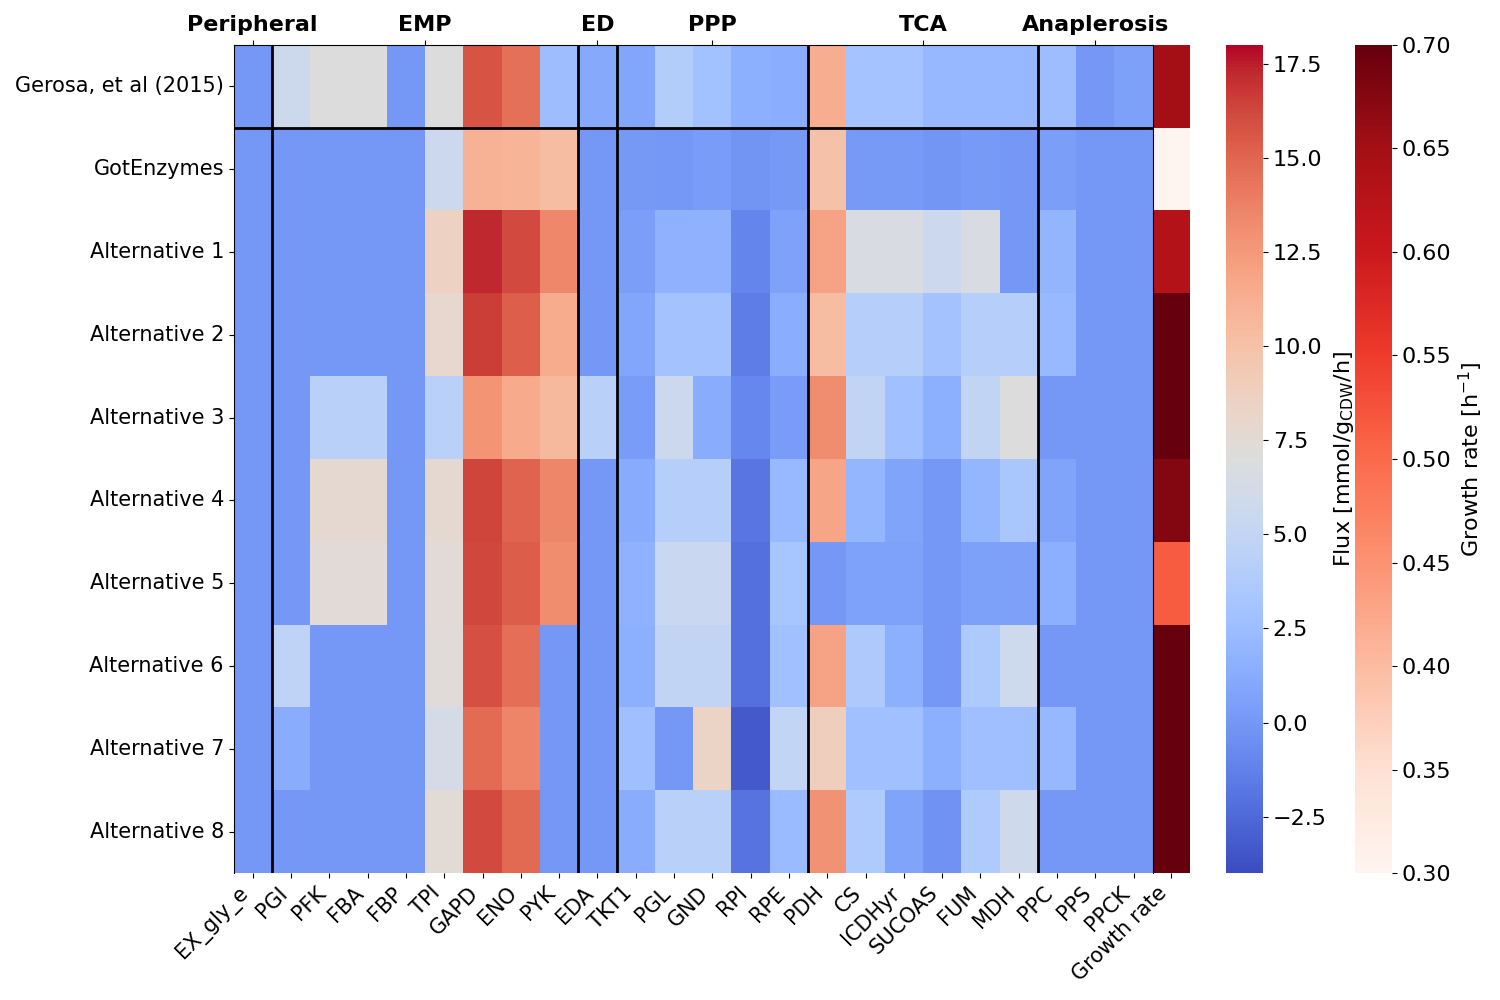
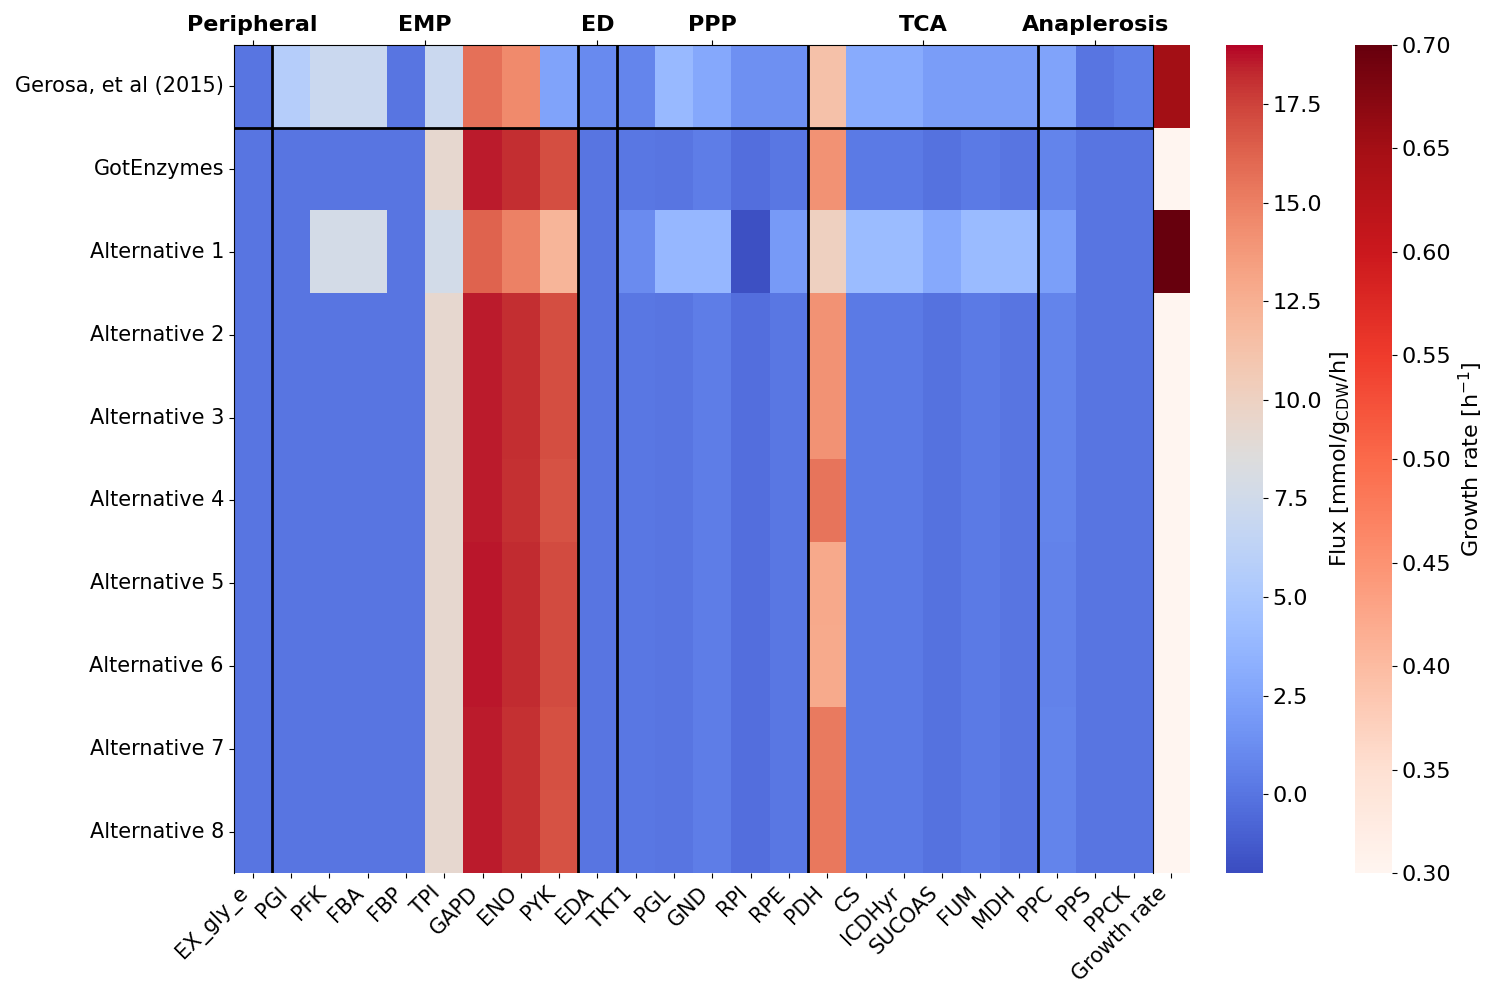
updated figures for new parametrization results

diff --git a/Figures/Scripts/Figure1_iml1515_kcat_analysis.py b/Figures/Scripts/Figure1_iml1515_kcat_analysis.py
@@ -63,11 +63,12 @@ def create_kcat_histogram_old_vs_new(data_file_paths: list[pd.DataFrame],
                                      cumulative: bool = False,
                                      other_colors = {'GotEnzymes': 'grey', 'After preprocessing': 'black'},
                                      legend = True,
-                                     fontsize =16):
+                                     fontsize =16,
+                                     cmap: dict=None):
     # fig, ax = plt.subplots()
-    n_bins = 50
+    n_bins = 200
     i = 0
-    cmap = plt.get_cmap("coolwarm")
+    if cmap is None: cmap = plt.get_cmap("coolwarm")
 
     for label, data_file_path in zip(label_names, data_file_paths):
         aes_parameter_df = pd.read_excel(data_file_path, sheet_name='ActiveEnzymes')
@@ -79,11 +80,14 @@ def create_kcat_histogram_old_vs_new(data_file_paths: list[pd.DataFrame],
         hist, bins = np.histogram(kcat_values, bins=n_bins)
         logbins = np.logspace(np.log10(bins[0]), np.log10(bins[-1]), len(bins))
 
-        if label in other_colors.keys():
+        if label in other_colors.keys() and not isinstance(cmap, dict):
             color = other_colors[label]
         else:
             i += 1
-            color = to_hex(cmap(i/ (len(data_file_paths)-len(other_colors))))
+            if not isinstance(cmap, dict):
+                color = to_hex(cmap(i/ (len(data_file_paths)-len(other_colors))))
+            else:
+                color = cmap[label]
         bin_heights, bin_borders, _ = ax.hist(kcat_values, bins = logbins, histtype='step',
                                               stacked=True, fill=False, label= label, color=color, cumulative=cumulative)
         calculate_distribution_statistics(bin_heights, bin_borders)
@@ -104,11 +108,12 @@ def create_kcat_change_per_cog_barplot(original_pam_kcat_file: str,
                                        diagnostic_files: List[str],
                                        ax: plt.Axes,
                                        legend=True,
-                                       fontsize = 16):
+                                       fontsize = 16,
+                                       cmap = None):
     individual_info_with_cog = get_kcat_changes_per_cog(original_pam_kcat_file,
                                        model_file,
                                        diagnostic_files)
-    return create_cog_barplot(individual_info_with_cog, ax, legend=legend, fontsize=fontsize)
+    return create_cog_barplot(individual_info_with_cog, ax, legend=legend, fontsize=fontsize, cmap=cmap)
 
 def get_kcat_changes_per_cog(original_pam_kcat_file:str,
                              model_file:str,
@@ -178,10 +183,15 @@ def summarize_and_pivot_cog_info_df_to_long(cog_info_relative: pd.DataFrame):
     cog_info_relative['negative_change'] = cog_info_relative['kcat_change'].apply(lambda x: x if x < 0 else 0)
 
     # Sum of changes grouped by alternative and COG description
+
+    print(cog_info_relative[cog_info_relative['COG description']=='Amino acid transport and metabolism'])
+    print(cog_info_relative[cog_info_relative['alternative']=='5'])
+
     cog_summary = cog_info_relative.groupby(['COG description', 'alternative']).agg({
         'positive_change': 'sum',
         'negative_change': 'sum'
     }).reset_index()
+    print(cog_summary)
 
     # Reshape the data for plotting
     cog_summary_long = pd.melt(
@@ -195,12 +205,13 @@ def summarize_and_pivot_cog_info_df_to_long(cog_info_relative: pd.DataFrame):
 
 def create_cog_barplot(cog_summary_long:pd.DataFrame,
                        ax:plt.Axes,
-                       plotting_threshold=5*1e11,
+                       plotting_threshold=1e9,
                        bar_width=0.2, spacing_factor = 3,  # Increase spacing
                        fontsize = 15,
                        legend = True,
                        xlabel=r'$\sum \frac{k_{cat,new}-k_{cat,old}}{k_{cat,old}}$',
-                       other_colors:dict={}):
+                       other_colors:dict={},
+                       cmap:dict = None):
     # only plot the most important cogs
     cog_summary_long = cog_summary_long.groupby('COG description').filter(
         lambda x: x['Change'].abs().sum() > plotting_threshold
@@ -221,11 +232,12 @@ def create_cog_barplot(cog_summary_long:pd.DataFrame,
     y_positions = np.arange(0, len(cog_order) * spacing_factor, spacing_factor)
 
     # Get unique alternatives and define a color mapping using coolwarm
-    alternatives = cog_summary_long['alternative'].unique()
-    model_colors = sns.color_palette("coolwarm", n_colors=len(alternatives)-len(other_colors))
-    alternative_colors = {
-        **{l: c for l, c in zip([f'Alternative {i + 1}' for i in range(len(alternatives)-len(other_colors))], model_colors)},
-        **other_colors}
+    if cmap is None:
+        alternatives = cog_summary_long['alternative'].unique()
+        model_colors = sns.color_palette("coolwarm", n_colors=len(alternatives)-len(other_colors))
+        cmap = {
+            **{l: c for l, c in zip([f'Alternative {i + 1}' for i in range(len(alternatives)-len(other_colors))], model_colors)},
+            **other_colors}
 
 
     # Plot each alternative separately
@@ -241,19 +253,19 @@ def create_cog_barplot(cog_summary_long:pd.DataFrame,
 
         # Apply dodge effect by shifting bars horizontally
         # Ensure the number of y-positions matches the data length
-        y_pos_positive = np.array(y_pos_alt[:len(positive_data)]) + (i - len(alternatives) / 2) * bar_width
-        y_pos_negative = np.array(y_pos_alt[:len(negative_data)]) + (i - len(alternatives) / 2) * bar_width
+        y_pos_positive = np.array(y_pos_alt[:len(positive_data)]) + (i - len(cog_summary_long['alternative'].unique()) / 2) * bar_width
+        y_pos_negative = np.array(y_pos_alt[:len(negative_data)]) + (i - len(cog_summary_long['alternative'].unique()) / 2) * bar_width
 
         # Plot positive changes
         if isinstance(alt, str): label =alt
         else: label = f'Alternative {alt}'
         ax.barh(y_pos_positive, positive_data['Change'].values,
-                color=alternative_colors[alt], label=label,
+                color=cmap[label], label=label,
                 height=bar_width, align='center')
 
         # Plot negative changes
         ax.barh(y_pos_negative, negative_data['Change'].values,
-                color=alternative_colors[alt], height=bar_width, align='center')
+                color=cmap[label], height=bar_width, align='center')
 
     # Add a vertical reference line at 0
     ax.axvline(0, color='black', linestyle='--', linewidth=1)
@@ -271,6 +283,7 @@ def create_cog_barplot(cog_summary_long:pd.DataFrame,
     # Label axes
     ax.set_xlabel(xlabel, fontsize=fontsize * 1.5)
     # ax.set_ylabel('COG Description', fontsize=fontsize * 1.5)
+    ax.grid(color='0.95')
 
     # Add legend (ensuring all alternatives are included)
     if legend:
@@ -292,7 +305,8 @@ def recreate_progress_plot(best_indiv_files:list[str],
                            pamparam_kwargs: dict = {'max_substrate_uptake_rate':-0.1},
                            rxns_to_plot: List[str] = None,
                            substrate_uptake_id:str = 'EX_glc__D_e',
-                           other_measurements: bool = False
+                           other_measurements: bool = False,
+                           cmap:dict = None
                            ):
     j=0
 
@@ -325,7 +339,7 @@ def recreate_progress_plot(best_indiv_files:list[str],
         fig, axs, color = plot_simulation(fig, axs, fluxes, [abs(rate) for rate in substrate_rates],
                                    parametrizer.validation_data.get_by_id('EX_glc__D_e')._reactions_to_plot,
                                    iteration=j + 1, max_iteration=len(best_indiv_files), label = label,
-                                   return_color=True)
+                                          color = cmap[label],return_color=True)
         if other_measurements:
             print('plotting other carbon sources')
             plot_flux_vs_experiment(axs[len(rxns_to_plot)], parametrizer,
@@ -348,10 +362,10 @@ def set_up_ecoli_pam_parametrizer_and_get_substrate_uptake_rates() -> Tuple:
                                                            kwargs)
 
 def main():
-    NUM_ALT_MODELS = 8
+    NUM_ALT_MODELS = 10
     FONTSIZE = 16
     PARAM_FILE_ORI = os.path.join('Results', '1_preprocessing',
-                                  'proteinAllocationModel_iML1515_EnzymaticData_250225.xlsx')
+                                  'proteinAllocationModel_iML1515_EnzymaticData_250423.xlsx')
     PARAM_FILE_PREPROC = os.path.join('Results', '2_parametrization',
                                       'proteinAllocationModel_iML1515_EnzymaticData_multi.xlsx')
 
@@ -363,6 +377,13 @@ def main():
     parameter_files = [os.path.join('Results', '3_analysis', 'parameter_files',
                                     f'proteinAllocationModel_EnzymaticData_iML1515_{model}.xlsx') for model in
                        range(1, NUM_ALT_MODELS + 1)]
+
+    model_colors = sns.color_palette("coolwarm", n_colors=NUM_ALT_MODELS)
+    other_colors = {'GotEnzymes': 'grey', 'After preprocessing': 'black'}
+    cmap = {
+        **{l: c for l, c in
+           zip([f'Alternative {i + 1}' for i in range(NUM_ALT_MODELS)], model_colors)},
+        **other_colors}
 
     #create a pretty figure
     fig = plt.figure(figsize=(30, 30))
@@ -388,9 +409,10 @@ def main():
         if i==0 or i==1:
             kwargs={'sharex':axs1[i+1]}
         axs1[i]= fig.add_subplot(gs_inner_top[row, col], **kwargs)
-    line, line_axs = recreate_progress_plot(diagnostic_files,
+    line, line_axs = recreate_progress_plot(diagnostic_files[:3],
                                            labels=[f'Alternative {i}' for i in range(1, NUM_ALT_MODELS + 1)],
-                                            fig=fig, axs=axs1, legend=False, fontsize=FONTSIZE)
+                                            fig=fig, axs=axs1, legend=False, fontsize=FONTSIZE,
+                                            cmap = cmap)
     #share x and y axis labels for progress plot
     ax_group = fig.add_subplot(gs_inner_l[0])
     ax_group.set_xticks([])
@@ -409,7 +431,7 @@ def main():
                                                      label_names=['GotEnzymes', 'After preprocessing'] \
                                                                  + [f'Alternative {i}' for i in
                                                                     range(1, NUM_ALT_MODELS + 1)],
-                                                     legend=False, fontsize=FONTSIZE)
+                                                     legend=False, fontsize=FONTSIZE, cmap = cmap)
 
     # create a legend
     legend_ax = fig.add_subplot(gs_inner_r[1])
@@ -432,7 +454,8 @@ def main():
     bar_ax = create_kcat_change_per_cog_barplot(PARAM_FILE_PREPROC,
                                                 MODEL_FILE,
                                                 diagnostic_files,
-                                                ax3, legend=False)
+                                                ax3, legend=False,
+                                                cmap = cmap)
     # Get the current position of ax3
     # pos = ax3.get_position()
 

diff --git a/Figures/Scripts/SuppFigures.py b/Figures/Scripts/SuppFigures.py
@@ -16,14 +16,14 @@ from Figures.Scripts.Figure2_sensitivity_error import (get_fluxomics_data,
 from Scripts.i3_analysis.flux_kcat_distribution import create_flux_histogram_old_vs_new
 from Scripts.i3_analysis.metabolic_flux_distribution_vs_exp import main_iML1515 as plot_intracell_flux_distribution_ecoli
 
-N_ALT_MODELS = 8
+N_ALT_MODELS = 10
 FONTSIZE = 16
 
 ECOLI_PHENOTYPE_DATA_PATH = os.path.join('Data', 'Ecoli_phenotypes')
 
 MODEL_FILE_PATH = os.path.join('Models', 'iML1515.xml')
 
-PARAM_FILE_GOTENZ = os.path.join('Results', '1_preprocessing', 'proteinAllocationModel_iML1515_EnzymaticData_250225.xlsx')
+PARAM_FILE_GOTENZ = os.path.join('Results', '1_preprocessing', 'proteinAllocationModel_iML1515_EnzymaticData_250423.xlsx')
 PARAM_FILE_PREPROC = os.path.join('Results', '2_parametrization',
                                      'proteinAllocationModel_iML1515_EnzymaticData_multi.xlsx')
 

diff --git a/Figures/Scripts/Figure2_sensitivity_error.py b/Figures/Scripts/Figure2_sensitivity_error.py
@@ -13,7 +13,7 @@ from PAModelpy.utils import set_up_pam
 
 from Scripts.pam_generation import setup_ecoli_pam as set_up_ecoli_pam_curated
 from Scripts.i3_analysis.metabolic_flux_distribution_vs_exp import RXNS_TO_VALIDATE, get_reactions2plot_pathway_mapping
-from Modules.utils.sector_config_functions import change_translational_sector_with_config_dict
+from Modules.utils.sector_config_functions import change_sector_parameters_with_config_dict
 
 from Modules.utils.pamparametrizer_analysis import (get_results_from_simulations,
                                                     calculate_error_for_reactions, calculate_r_squared_for_reaction,
